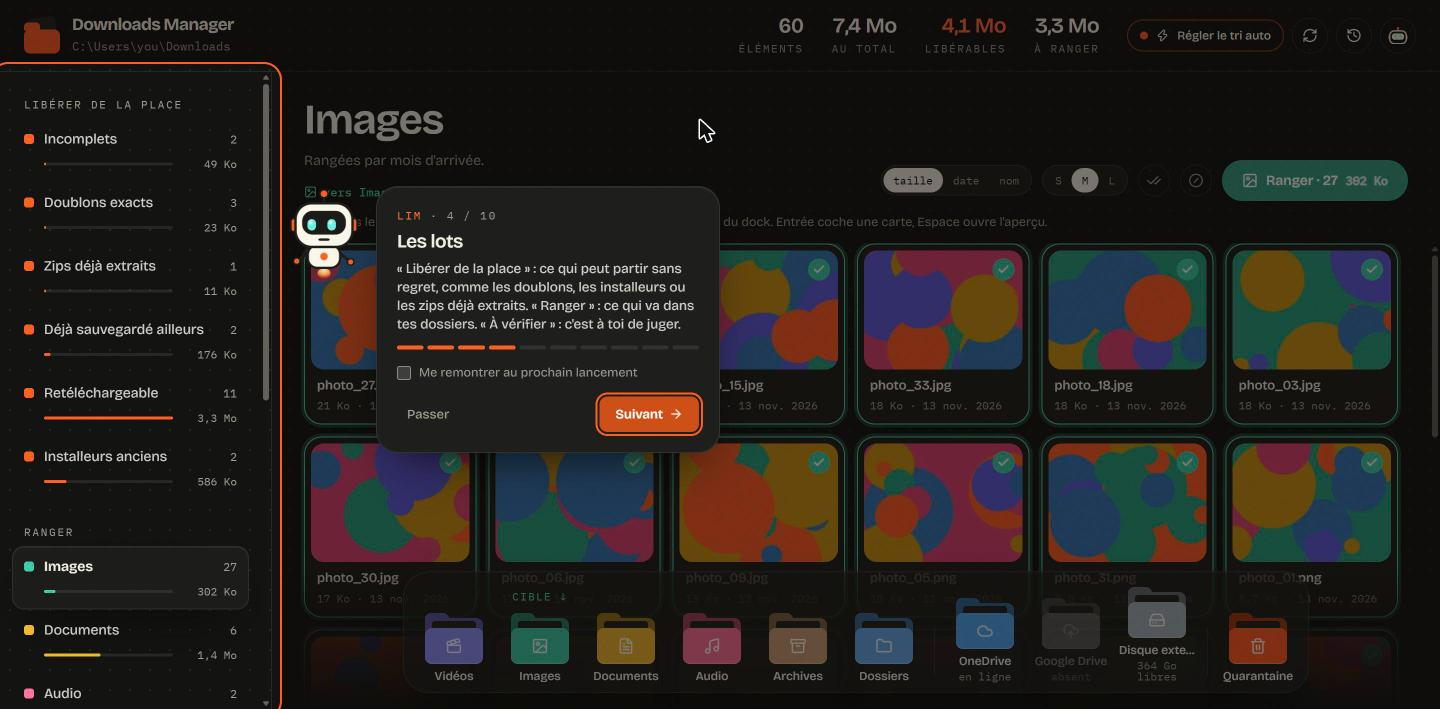
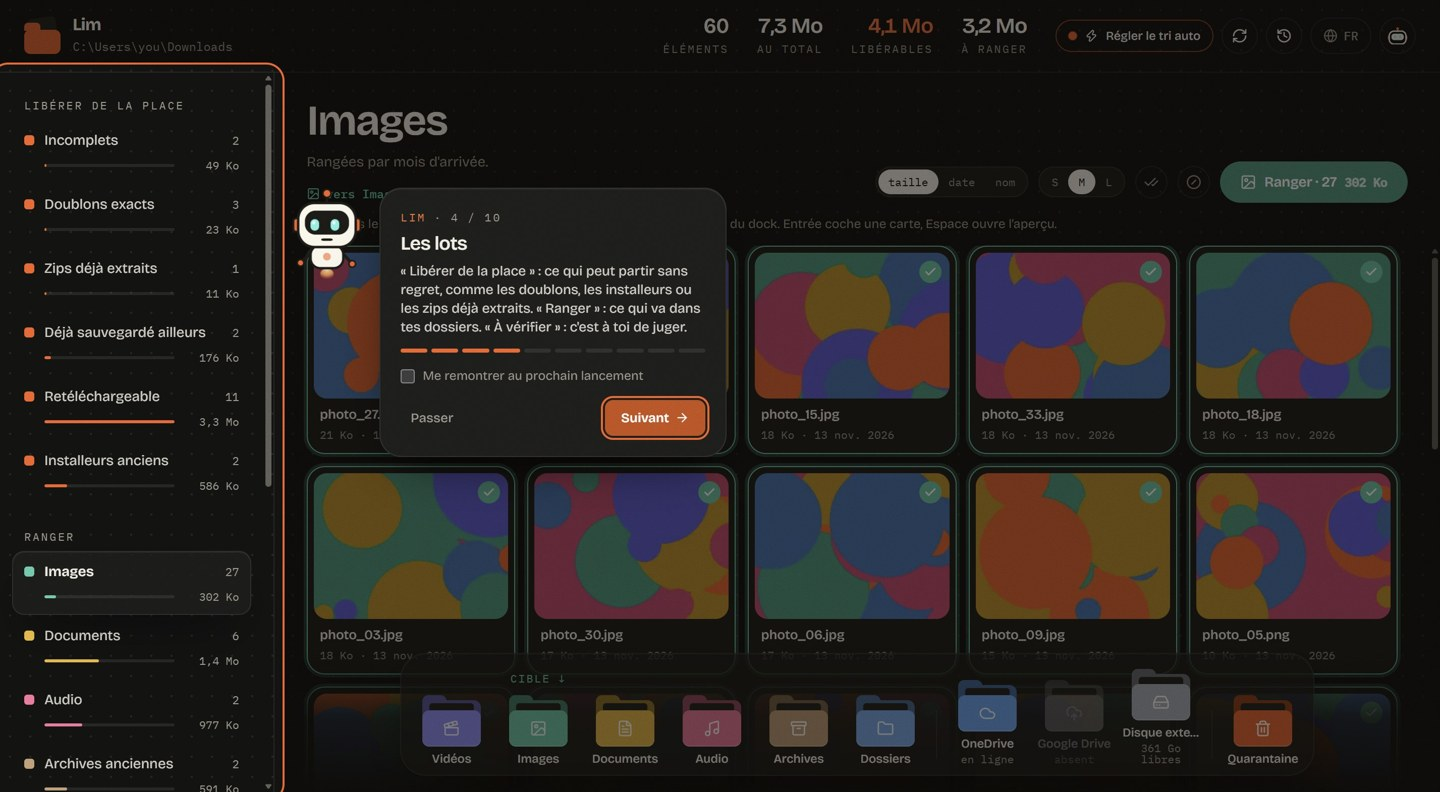
Avant publication : licences tierces, capture française, README du front
- THIRD_PARTY_NOTICES.md (40 paquets Python, front, polices), joint au zip.
- Capture de Lim en français refaite sous le nouveau nom ; capture
  inutilisée retirée.
- web/README.md remplace le texte du modèle Vite.

diff --git a/THIRD_PARTY_NOTICES.md b/THIRD_PARTY_NOTICES.md
@@ -1,0 +1,66 @@
+# Third-party notices
+
+The Windows build (`Lim.exe`) bundles the following open-source components. Each keeps its own license;
+the full texts ship with each package and are available from the links below.
+
+## Python (bundled in the exe)
+
+| Package | Version | License | Source |
+|---|---|---|---|
+| annotated-doc | 0.0.6 | MIT | https://github.com/fastapi/annotated-doc |
+| annotated-types | 0.8.0 | MIT | https://github.com/annotated-types/annotated-types |
+| anyio | 4.16.0 | MIT | https://anyio.readthedocs.io/en/latest/ |
+| bottle | 0.13.4 | MIT License | http://bottlepy.org/ |
+| certifi | 2026.10.23 | Mozilla Public License 2.0 (MPL 2.0) | https://github.com/certifi/python-certifi |
+| cffi | 2.1.1 | MIT-0 | https://cffi.readthedocs.io/ |
+| click | 8.5.1 | BSD-3-Clause | https://click.palletsprojects.com/page/changes/ |
+| clr_loader | 0.3.1 | voir le paquet | https://github.com/pythonnet/clr-loader |
+| colorama | 0.4.6 | BSD License | https://github.com/tartley/colorama |
+| fastapi | 0.162.4 | MIT | https://github.com/fastapi/fastapi |
+| h11 | 0.16.0 | MIT License | https://github.com/python-hyper/h11 |
+| httpcore | 1.0.9 | BSD-3-Clause | https://www.encode.io/httpcore |
+| httptools | 0.9.0 | MIT | https://github.com/MagicStack/httptools |
+| httpx | 0.28.1 | BSD License | https://github.com/encode/httpx/blob/master/CHANGELOG.md |
+| idna | 3.20 | BSD-3-Clause | https://github.com/kjd/idna/blob/master/HISTORY.md |
+| opentelemetry-api | 1.45.2 | Apache-2.0 | https://github.com/open-telemetry/opentelemetry-python/tree/main/opentelemetry-api |
+| pillow | 13.0.0 | MIT-CMU | https://pillow.readthedocs.io/en/stable/releasenotes/index.html |
+| proxy_tools | 0.1.0 | MIT License | http://github.com/jtushman/proxy_tools |
+| pycparser | 3.12 | BSD-3-Clause | https://github.com/eliben/pycparser |
+| pydantic | 2.14.3 | MIT | https://github.com/pydantic/pydantic |
+| pydantic_core | 2.50.4 | MIT | https://github.com/pydantic/pydantic |
+| pystray | 0.19.5 | GNU Lesser General Public License v3 (LGPLv3) | https://github.com/moses-palmer/pystray |
+| python-dotenv | 1.2.4 | BSD-3-Clause | https://github.com/theskumar/python-dotenv |
+| pythonnet | 3.2.1 | MIT | https://pythonnet.github.io/ |
+| pywebview | 6.2.1 | BSD License | https://pywebview.flowrl.com/ |
+| PyYAML | 6.0.3 | MIT License | https://pyyaml.org/ |
+| six | 1.17.0 | MIT License | https://github.com/benjaminp/six |
+| starlette | 1.10.0 | BSD-3-Clause | https://github.com/Kludex/starlette |
+| typing-inspection | 0.4.5 | MIT | https://github.com/pydantic/typing-inspection |
+| typing_extensions | 4.16.0 | PSF-2.0 | https://github.com/python/typing_extensions/issues |
+| uvicorn | 0.54.0 | BSD-3-Clause | https://uvicorn.dev/release-notes |
+| watchfiles | 1.3.0 | MIT License | https://github.com/samuelcolvin/watchfiles |
+| websockets | 17.4 | BSD-3-Clause | https://github.com/python-websockets/websockets |
+| Windows-Toasts | 1.3.1 | voir le paquet | https://github.com/DatGuy1/Windows-Toasts |
+| winrt-runtime | 3.2.1 | MIT | https://pywinrt.readthedocs.io |
+| winrt-Windows.Data.Xml.Dom | 3.2.1 | MIT | https://pywinrt.readthedocs.io |
+| winrt-Windows.Foundation | 3.2.1 | MIT | https://pywinrt.readthedocs.io |
+| winrt-Windows.Foundation.Collections | 3.2.1 | MIT | https://pywinrt.readthedocs.io |
+| winrt-Windows.UI.Notifications | 3.2.1 | MIT | https://pywinrt.readthedocs.io |
+| xxhash | 4.1.0 | BSD-2-Clause | https://github.com/ifduyue/python-xxhash |
+
+pystray is licensed under the LGPL v3. It is used unmodified; its source is available at https://github.com/moses-palmer/pystray and you may replace it by rebuilding the exe from this repository (`tools/build_exe.py`).
+
+The exe is built with PyInstaller (GPL v2 with the bootloader exception, which allows distributing the result under any license).
+
+## Interface (bundled in `dm/static`)
+
+| Package | License |
+|---|---|
+| @fontsource-variable/bricolage-grotesque | OFL-1.1 |
+| @fontsource/ibm-plex-mono | OFL-1.1 |
+| lucide-react | ISC |
+| motion | MIT |
+| react | MIT |
+| react-dom | MIT |
+
+Fonts: Bricolage Grotesque and IBM Plex Mono, SIL Open Font License 1.1 (via Fontsource).

diff --git a/web/README.md b/web/README.md
@@ -1,32 +1,9 @@
-# React + TypeScript + Vite
+# Lim — interface
 
-This template provides a minimal setup to get React working in Vite with HMR and some Oxlint rules.
+React + TypeScript + Vite front end of Lim, served by the Python app from `dm/static`.
 
-Currently, two official plugins are available:
+- `npm ci` then `npm run dev` while working on the interface (the Python server must run on port 8765).
+- `npm run build` type-checks and writes the production build to `../dm/static` (commit it with your change).
+- Translations: French text is the key, English lives in `src/i18n/*.ts`.
 
-- [@vitejs/plugin-react](https://github.com/vitejs/vite-plugin-react/blob/main/packages/plugin-react) uses [Oxc](https://oxc.rs)
-- [@vitejs/plugin-react-swc](https://github.com/vitejs/vite-plugin-react/blob/main/packages/plugin-react-swc) uses [SWC](https://swc.rs/)
-
-## React Compiler
-
-The React Compiler is not enabled on this template because of its impact on dev & build performances. To add it, see [this documentation](https://react.dev/learn/react-compiler/installation).
-
-## Expanding the Oxlint configuration
-
-If you are developing a production application, we recommend enabling type-aware lint rules by installing `oxlint-tsgolint` and editing `.oxlintrc.json`:
-
-```json
-{
-  "$schema": "./node_modules/oxlint/configuration_schema.json",
-  "plugins": ["react", "typescript", "oxc"],
-  "options": {
-    "typeAware": true
-  },
-  "rules": {
-    "react/rules-of-hooks": "error",
-    "react/only-export-components": ["warn", { "allowConstantExport": true }]
-  }
-}
-```
-
-See the [Oxlint rules documentation](https://oxc.rs/docs/guide/usage/linter/rules) for the full list of rules and categories.
+See the main [README](../README.md) and [CONTRIBUTING](../CONTRIBUTING.md).

diff --git a/README.md b/README.md
@@ -78,4 +78,4 @@ Bug reports, ideas and pull requests are welcome. See [CONTRIBUTING.md](CONTRIBU
 
 ## License
 
-[MIT](LICENSE)
+[MIT](LICENSE). Bundled open-source components and their licenses: [THIRD_PARTY_NOTICES.md](THIRD_PARTY_NOTICES.md).
